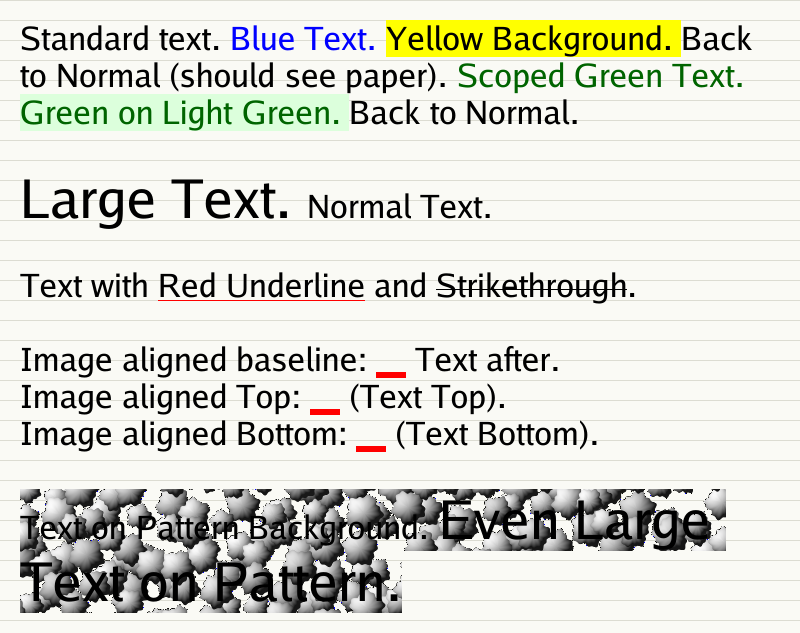
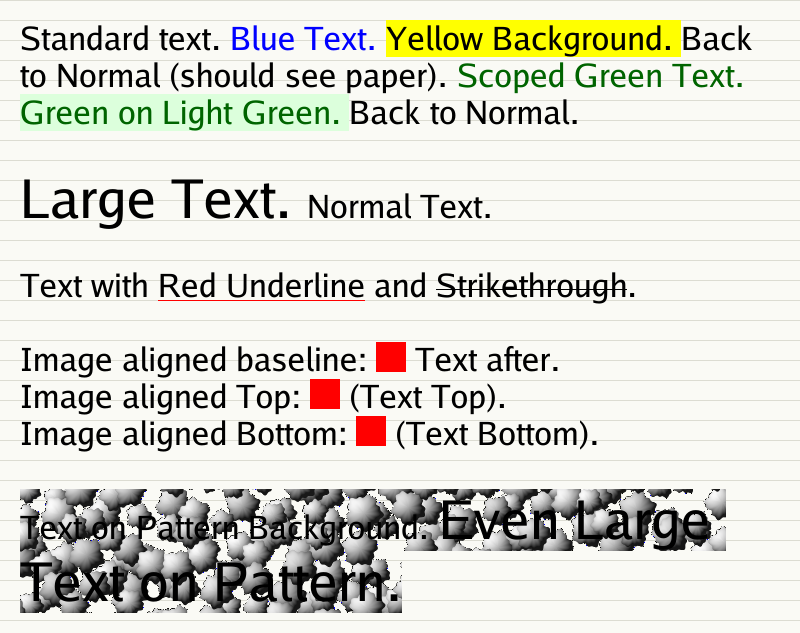
Fix layout metrics for DecorationBox

Changed region(s): [[0.4688, 0.5403, 0.5312, 0.6003], [0.4375, 0.6603, 0.5, 0.7204], [0.375, 0.6003, 0.4375, 0.6603]]

diff --git a/decorator_test.go b/decorator_test.go
@@ -1,0 +1,72 @@
+package wordwrap
+
+import (
+	"testing"
+	"golang.org/x/image/font"
+	"golang.org/x/image/math/fixed"
+)
+
+type mockMetricBox struct {
+	Box
+	m font.Metrics
+	a fixed.Int26_6
+}
+
+func (m *mockMetricBox) MetricsRect() font.Metrics {
+	return m.m
+}
+
+func (m *mockMetricBox) AdvanceRect() fixed.Int26_6 {
+	return m.a
+}
+
+func TestDecorationBoxMetrics(t *testing.T) {
+	// A font where Height > Ascent + Descent
+	innerM := font.Metrics{
+		Ascent:  fixed.I(10),
+		Descent: fixed.I(4),
+		Height:  fixed.I(16), // 10 + 4 + 2 leading
+	}
+	innerA := fixed.I(20)
+
+	mb := &mockMetricBox{
+		m: innerM,
+		a: innerA,
+	}
+
+	pad := fixed.Rectangle26_6{
+		Min: fixed.Point26_6{X: fixed.I(1), Y: fixed.I(2)},
+		Max: fixed.Point26_6{X: fixed.I(3), Y: fixed.I(4)},
+	}
+	mar := fixed.Rectangle26_6{
+		Min: fixed.Point26_6{X: fixed.I(5), Y: fixed.I(6)},
+		Max: fixed.Point26_6{X: fixed.I(7), Y: fixed.I(8)},
+	}
+
+	db := NewDecorationBox(mb, pad, mar, nil, BgPositioningPassThrough)
+
+	gotM := db.MetricsRect()
+
+	// Expected Top = pad.Min.Y (2) + mar.Min.Y (6) = 8
+	// Expected Bottom = pad.Max.Y (4) + mar.Max.Y (8) = 12
+	expAscent := innerM.Ascent + fixed.I(8) // 10 + 8 = 18
+	expDescent := innerM.Descent + fixed.I(12) // 4 + 12 = 16
+	expHeight := innerM.Height + fixed.I(8) + fixed.I(12) // 16 + 20 = 36
+
+	if gotM.Ascent != expAscent {
+		t.Errorf("expected Ascent %v, got %v", expAscent, gotM.Ascent)
+	}
+	if gotM.Descent != expDescent {
+		t.Errorf("expected Descent %v, got %v", expDescent, gotM.Descent)
+	}
+	if gotM.Height != expHeight {
+		t.Errorf("expected Height %v, got %v", expHeight, gotM.Height)
+	}
+
+	gotA := db.AdvanceRect()
+	// Expected advance = 20 + pad.Min.X(1) + pad.Max.X(3) + mar.Min.X(5) + mar.Max.X(7) = 20 + 16 = 36
+	expAdvance := innerA + fixed.I(16)
+	if gotA != expAdvance {
+		t.Errorf("expected Advance %v, got %v", expAdvance, gotA)
+	}
+}

diff --git a/decorator.go b/decorator.go
@@ -3,6 +3,7 @@ package wordwrap
 import (
 	"image"
 	"image/draw"
+	"golang.org/x/image/font"
 
 	"golang.org/x/image/math/fixed"
 )
@@ -84,4 +85,16 @@ func (db *DecorationBox) MaxSize() (fixed.Int26_6, fixed.Int26_6) {
 	}
 	return w + db.Padding.Max.X + db.Padding.Min.X + db.Margin.Max.X + db.Margin.Min.X,
 		h + db.Padding.Max.Y + db.Padding.Min.Y + db.Margin.Max.Y + db.Margin.Min.Y
+}
+
+func (db *DecorationBox) AdvanceRect() fixed.Int26_6 {
+	return db.Box.AdvanceRect() + db.Padding.Min.X + db.Padding.Max.X + db.Margin.Min.X + db.Margin.Max.X
+}
+
+func (db *DecorationBox) MetricsRect() font.Metrics {
+	m := db.Box.MetricsRect()
+	m.Ascent += db.Padding.Min.Y + db.Margin.Min.Y
+	m.Descent += db.Padding.Max.Y + db.Margin.Max.Y
+	m.Height += db.Padding.Min.Y + db.Padding.Max.Y + db.Margin.Min.Y + db.Margin.Max.Y
+	return m
 }
